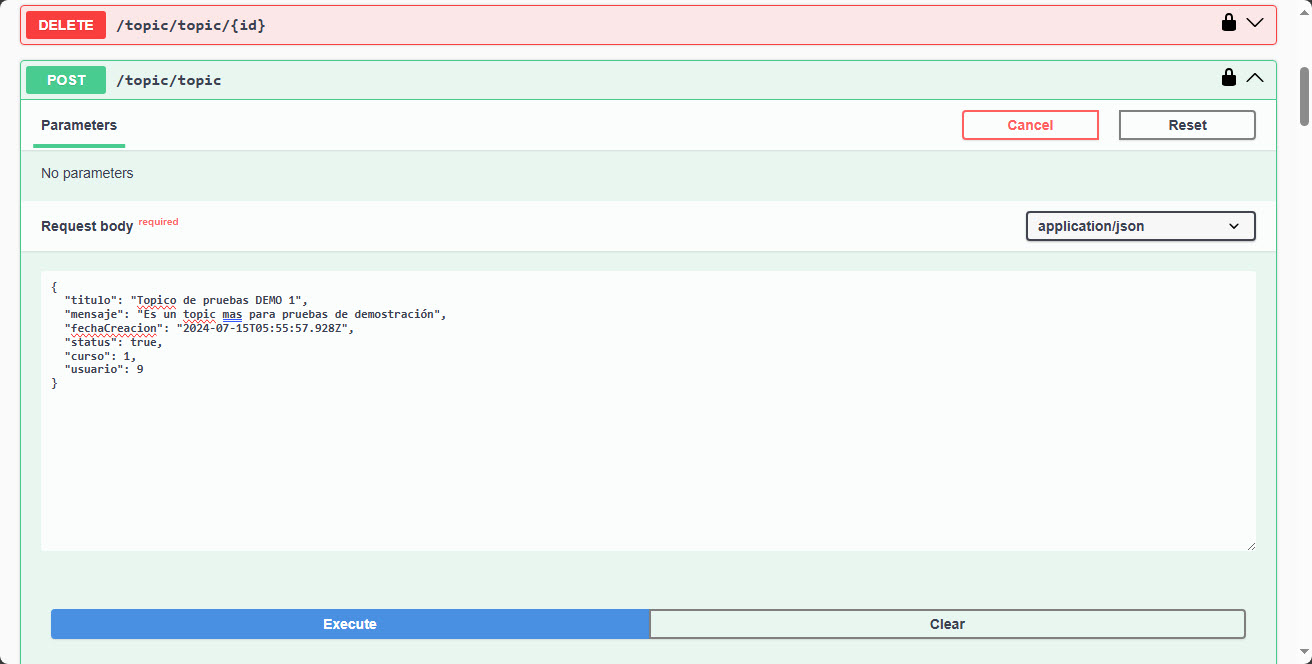
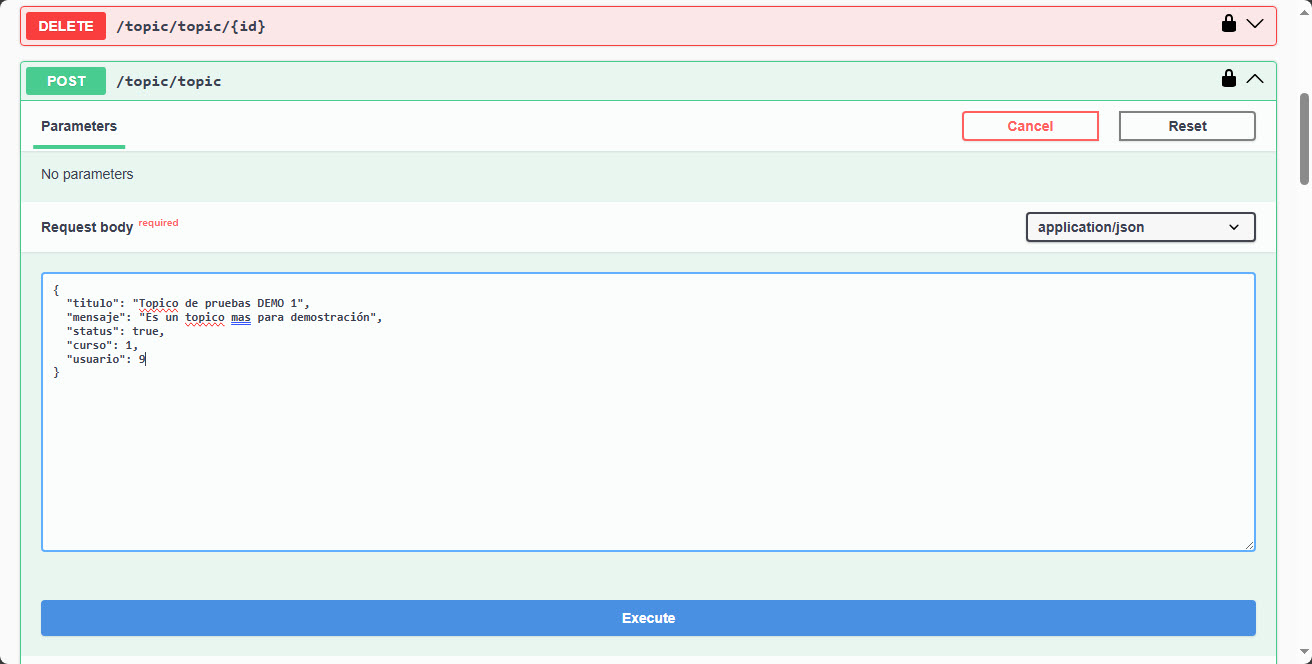
Actualizando imagenes

diff --git a/src/main/java/com/jimd/Security01/service/dtoTopic/DatosRegistrarTopic.java b/src/main/java/com/jimd/Security01/service/dtoTopic/DatosRegistrarTopic.java
@@ -1,5 +1,6 @@
 package com.jimd.Security01.service.dtoTopic;
 
+import com.fasterxml.jackson.annotation.JsonIgnore;
 import jakarta.persistence.Column;
 import jakarta.validation.constraints.NotBlank;
 import org.hibernate.annotations.CreationTimestamp;
@@ -13,6 +14,7 @@ public record DatosRegistrarTopic(
         @NotBlank
         @Column(unique = true)
         String mensaje,
+        @JsonIgnore
         @CreationTimestamp
         LocalDateTime fechaCreacion,
         boolean status,
